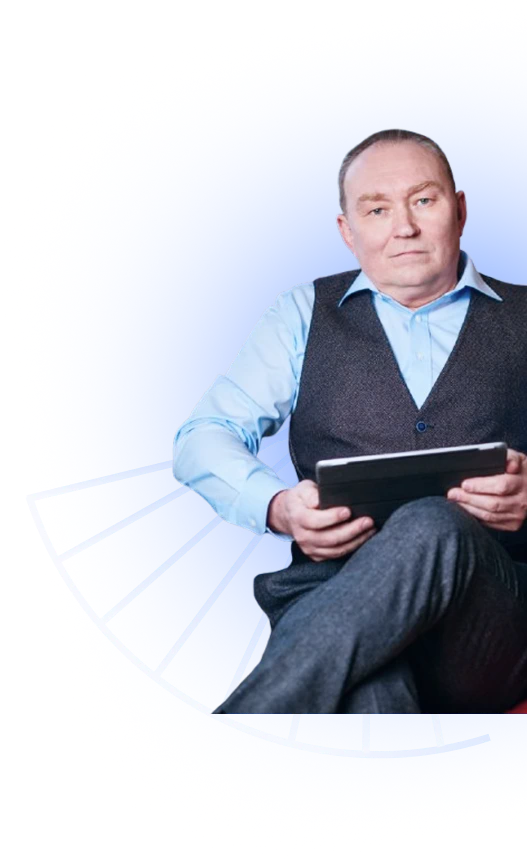
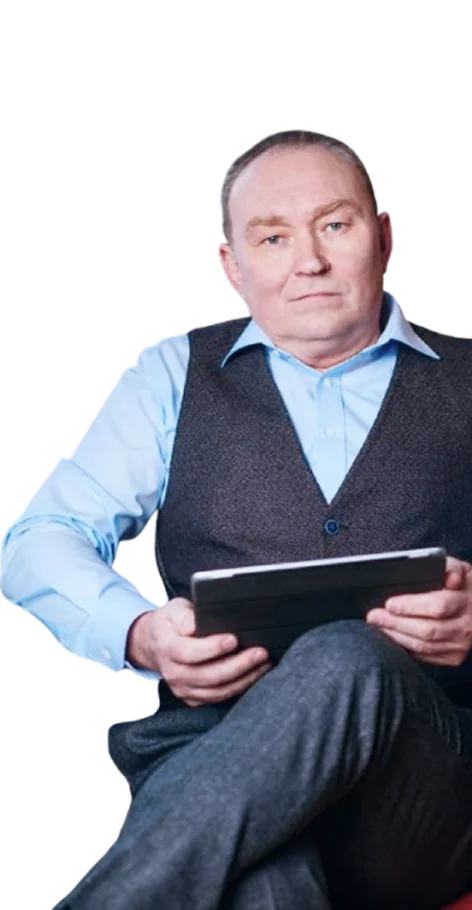
fix: Hero Image on Service Page

diff --git a/src/components/servicespage/ServicesHero.tsx b/src/components/servicespage/ServicesHero.tsx
@@ -1,4 +1,5 @@
 import { getTranslations } from "next-intl/server";
+import Image from "next/image";
 
 import { fadeInAnimation } from "@/helpers/animation";
 
@@ -45,8 +46,23 @@ const ServicesHero = async () => {
           scale: 0.8,
           delay: 0.7,
         })}
-        className="absolute -bottom-[40px] right-0 -z-[5] h-[575px] w-[350px] bg-contain max-md:bg-[url('/images/servicespage/services-hero-person-mob.webp')] md:hidden"
-      />
+        className="absolute bottom-[60px] right-0 -z-[5] w-full bg-contain md:hidden"
+      >
+        <Image
+          src={"/images/servicespage/services-hero-person-mob.webp"}
+          alt="Фото"
+          width={236}
+          height={455}
+          className="absolute bottom-0 right-0"
+        />
+        <Image
+          src={"/images/servicespage/services-hero-decor-mob.svg"}
+          alt="Декоративне зображення"
+          width={351}
+          height={575}
+          className="absolute -bottom-[90px] right-0 -z-[1]"
+        />
+      </AnimatedWrapper>
 
       <div className="absolute -z-10 bg-no-repeat max-md:hidden md:left-0 md:top-0 md:h-full md:w-[45%] md:bg-[url('/images/servicespage/services-hero-bg.webp')]" />
     </section>
